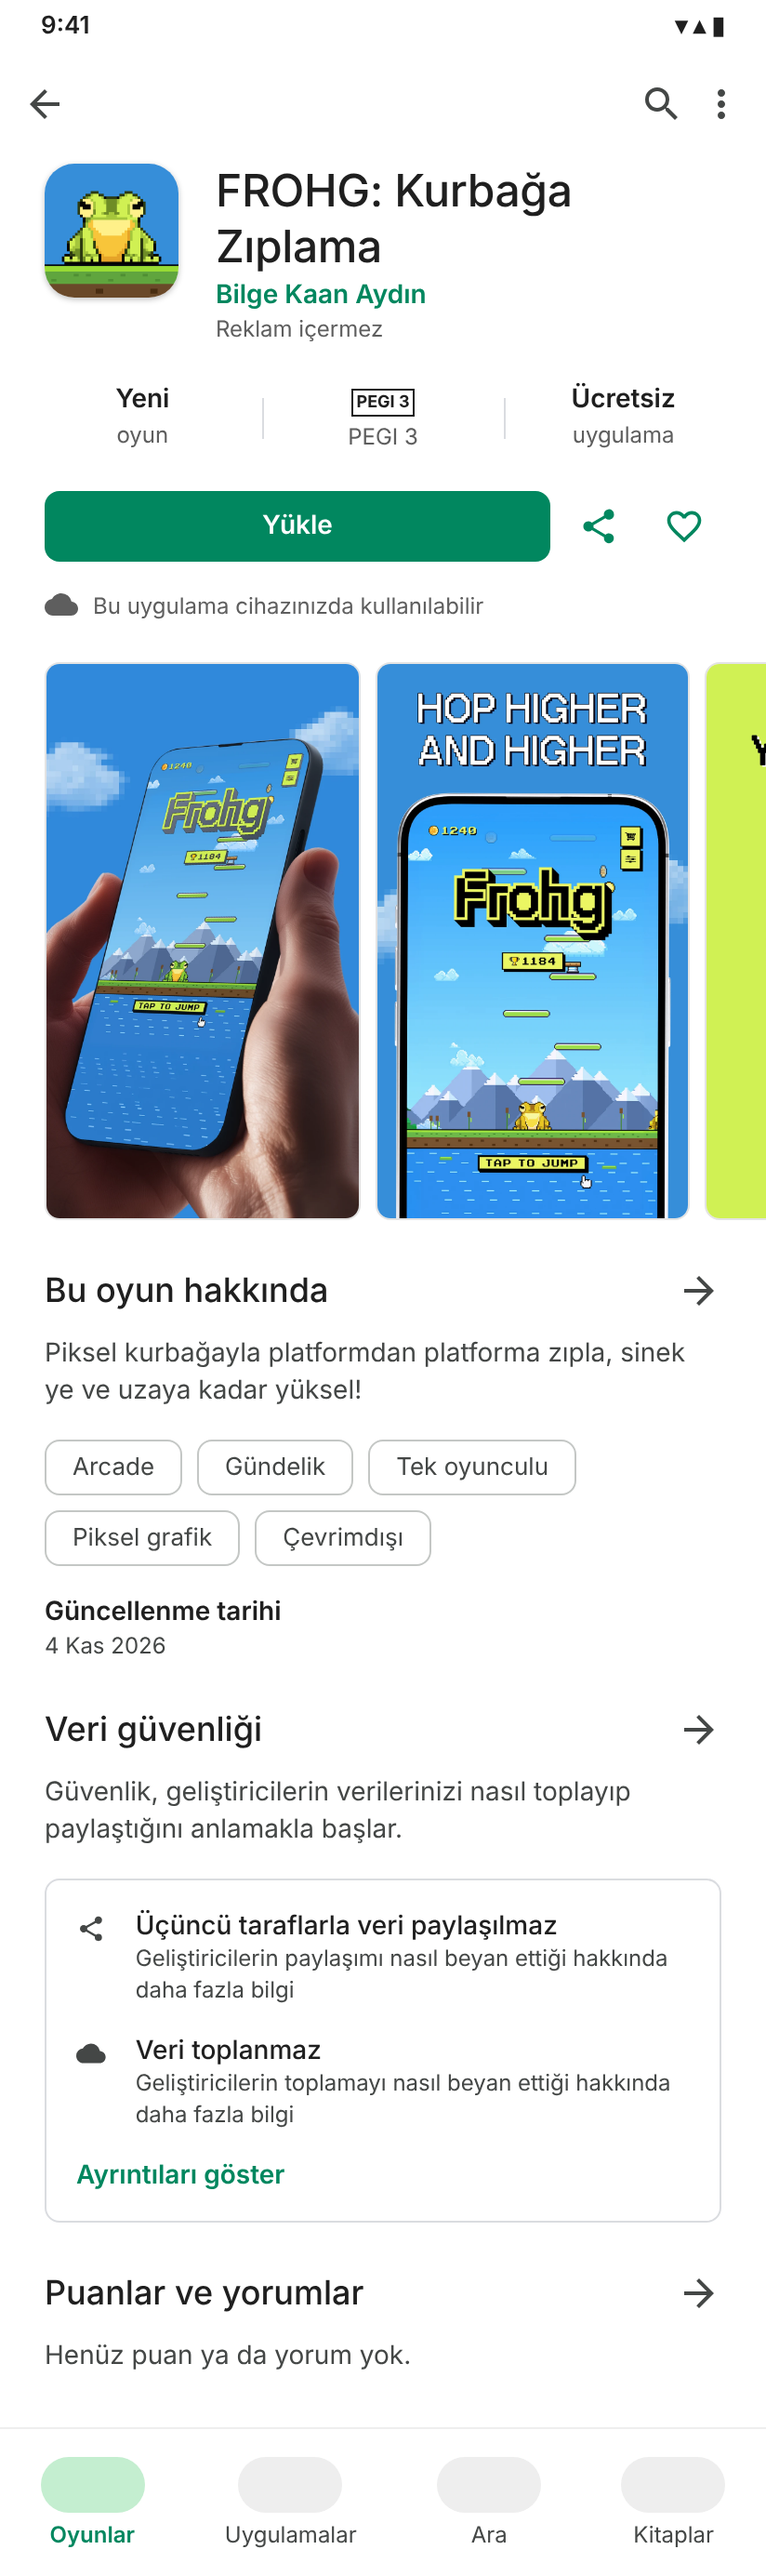
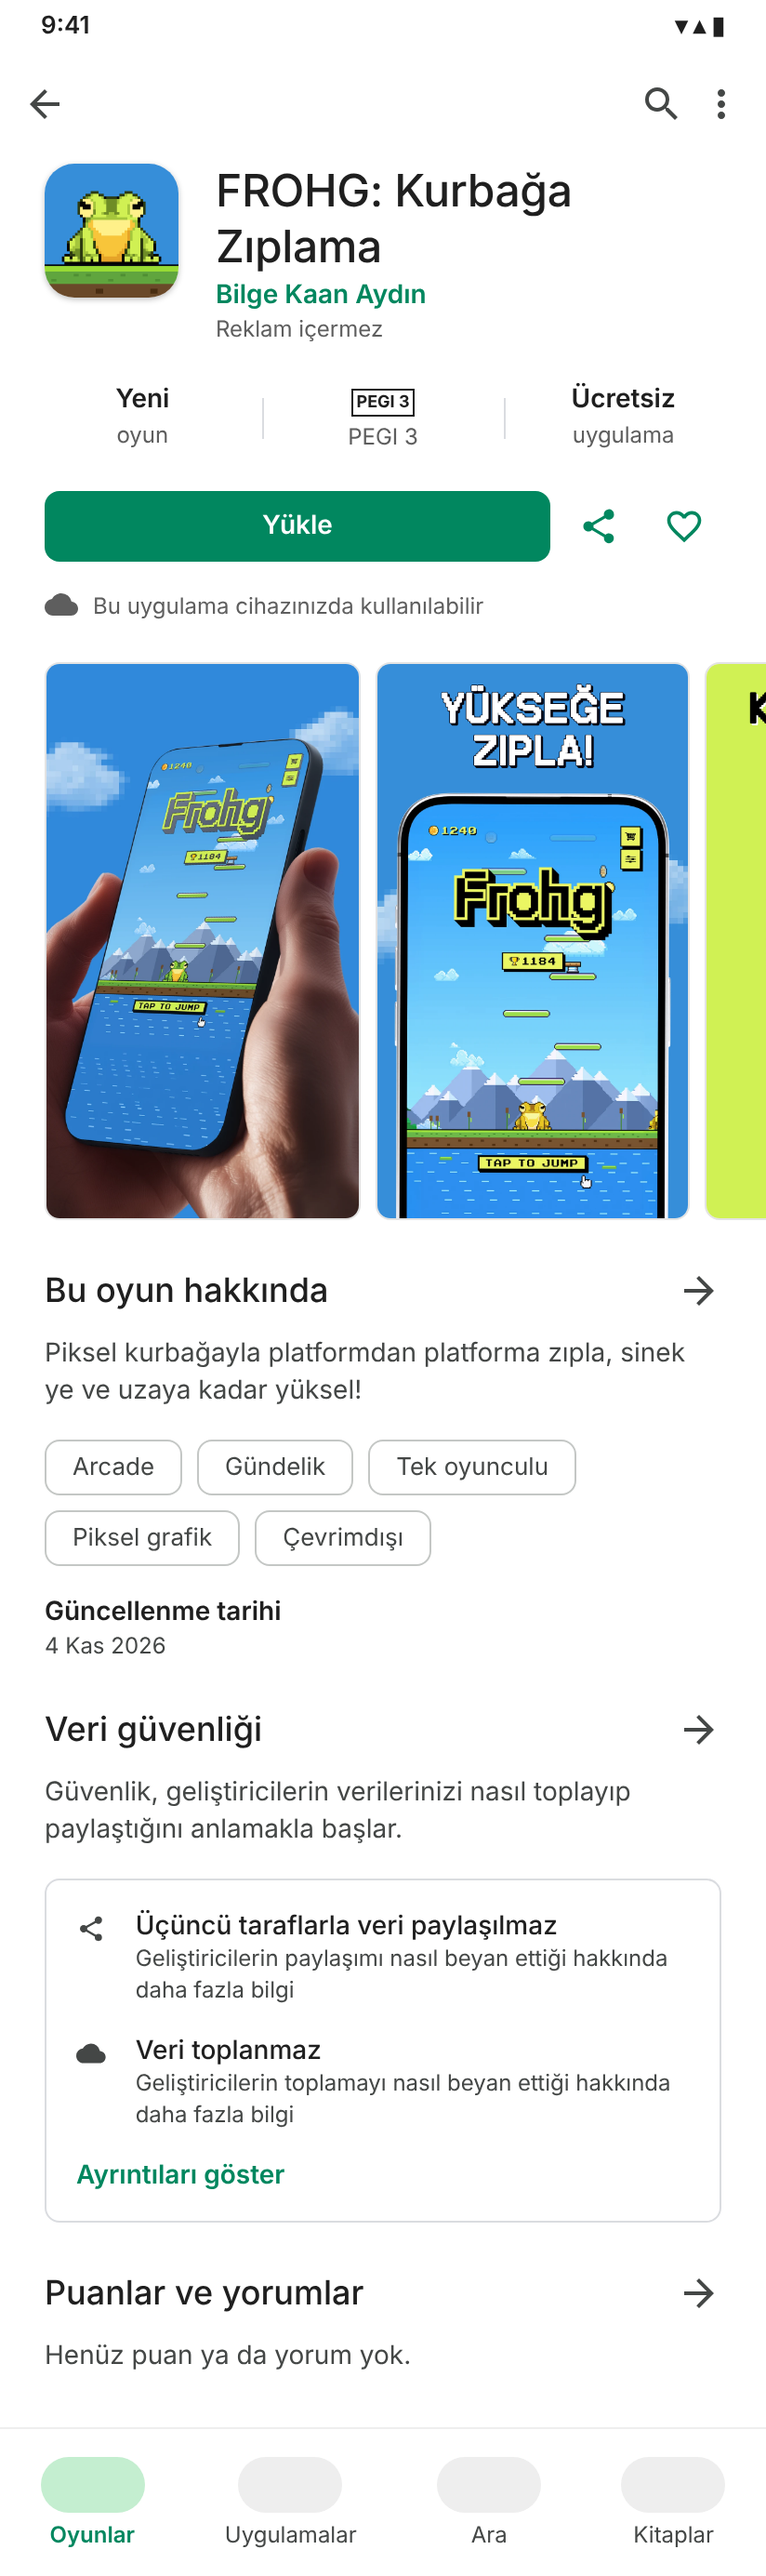
Turkish store mockups with bold Turkish headlines; Play listing previews in Turkish and English
Claude-Session: https://claude.ai/code/session_01MFj28p9RtNLvWGM2PJBSdZ

Changed region(s): [[0.5461, 0.2484, 0.8495, 0.3105], [0.9709, 0.2484, 1.0, 0.3105]]

diff --git a/store/LISTING.md b/store/LISTING.md
@@ -9,7 +9,9 @@ Görseller bu klasörde:
 | `feature-graphic-1024x500.png` | Google Play Console > Feature graphic |
 | `screenshots/iphone-6.7/` | App Store > iPhone 6.7" ekran görüntüleri (1290x2796) |
 | `screenshots/play-1080x1920/` | Google Play > Phone screenshots (1080x1920, 9:16), ham oyun görüntüsü: mockup için |
-| `mockups/play/` | **Google Play > Phone screenshots: yüklenecek son hâller** (5 adet, 1080x1920 PNG) |
+| `mockups/play-en/` | **Google Play > Phone screenshots, English (en-US)**: yüklenecek son hâller (5 adet, 1080x1920 PNG) |
+| `mockups/play-tr/` | **Google Play > Phone screenshots, Türkçe (tr-TR)**: yüklenecek son hâller (5 adet, 1080x1920 PNG) |
+| `preview/` | Mağaza sayfasının nasıl görüneceğinin önizlemesi (TR ve EN) |
 
 Gizlilik politikası adresi (iki mağaza da ister): `https://bilgekaanaydin.github.io/frog-hop/privacy.html`
 
@@ -19,10 +21,12 @@ Gizlilik politikası adresi (iki mağaza da ister): `https://bilgekaanaydin.gith
 
 | Dosya | Türkçe | English |
 |---|---|---|
-| `1-title.png` | ZIPLA, DAHA YÜKSEĞE ÇIK | HOP HIGHER AND HIGHER |
-| `2-space.png` | UZAYA ZIPLA | JUMP TO SPACE |
-| `3-tongue.png` | DİLİNLE SİNEKLERİ KAP! | SNAP UP THE FLIES! |
-| `4-shop.png` | KURBAĞANI GİYDİR | DRESS UP YOUR FROG |
+| `2-hop-higher.png` | YÜKSEĞE ZIPLA! | HOP HIGHER AND HIGHER |
+| `3-dress-up.png` | KURBAĞANI GİYDİR | DRESS UP YOUR FROG |
+| `4-snap-up-flies.png` | SİNEKLERİ KAP! | SNAP UP THE FLIES! |
+| `5-jump-to-space.png` | UZAYA ÇIK! | JUMP TO SPACE |
+
+`1-intro.png` yazısız, iki dilde de aynı. / Same in both languages (no caption).
 
 Alt satır (isteğe bağlı) / Optional second line:
 1. Parmağını sürükle, platformdan platforma zıpla. / Drag to steer, bounce from platform to platform.
